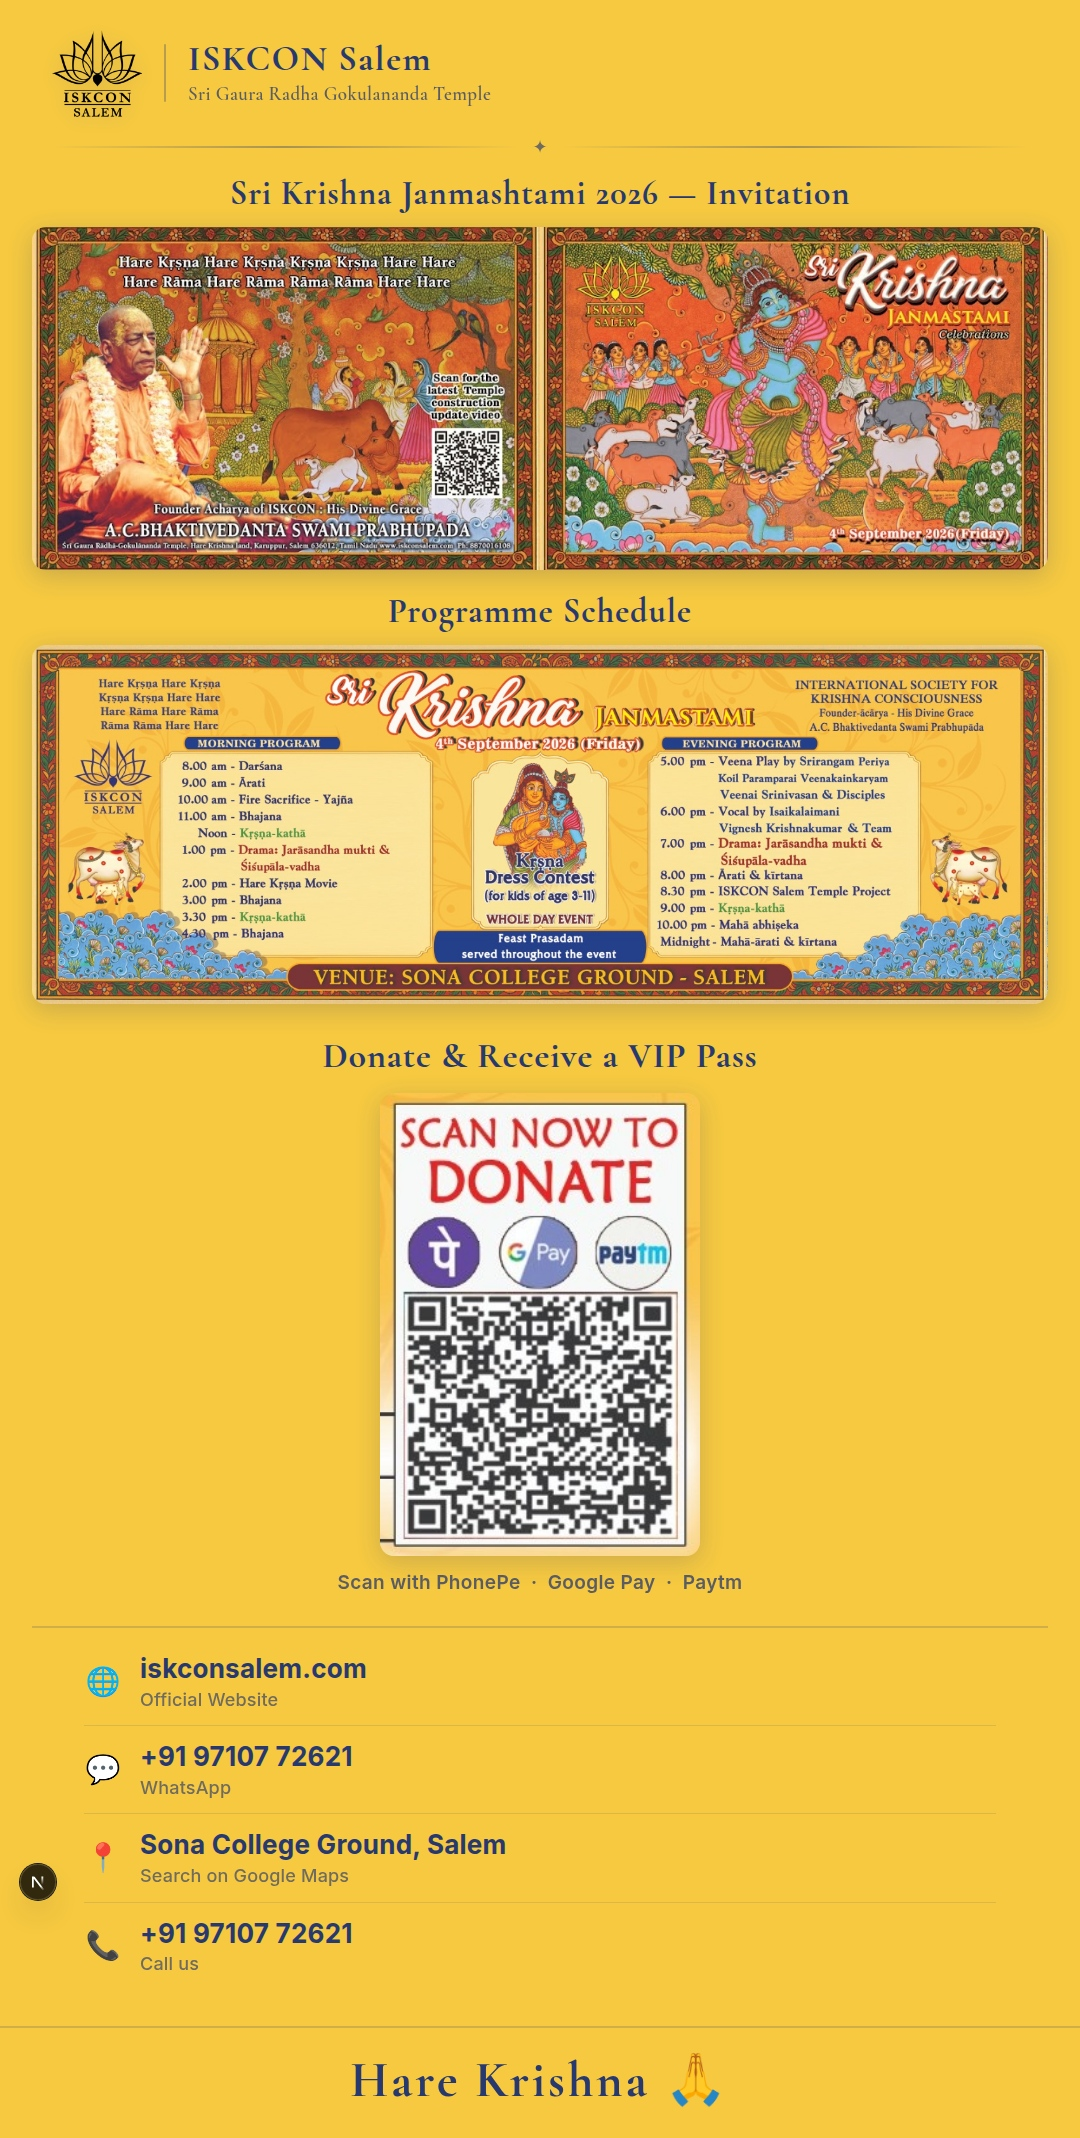
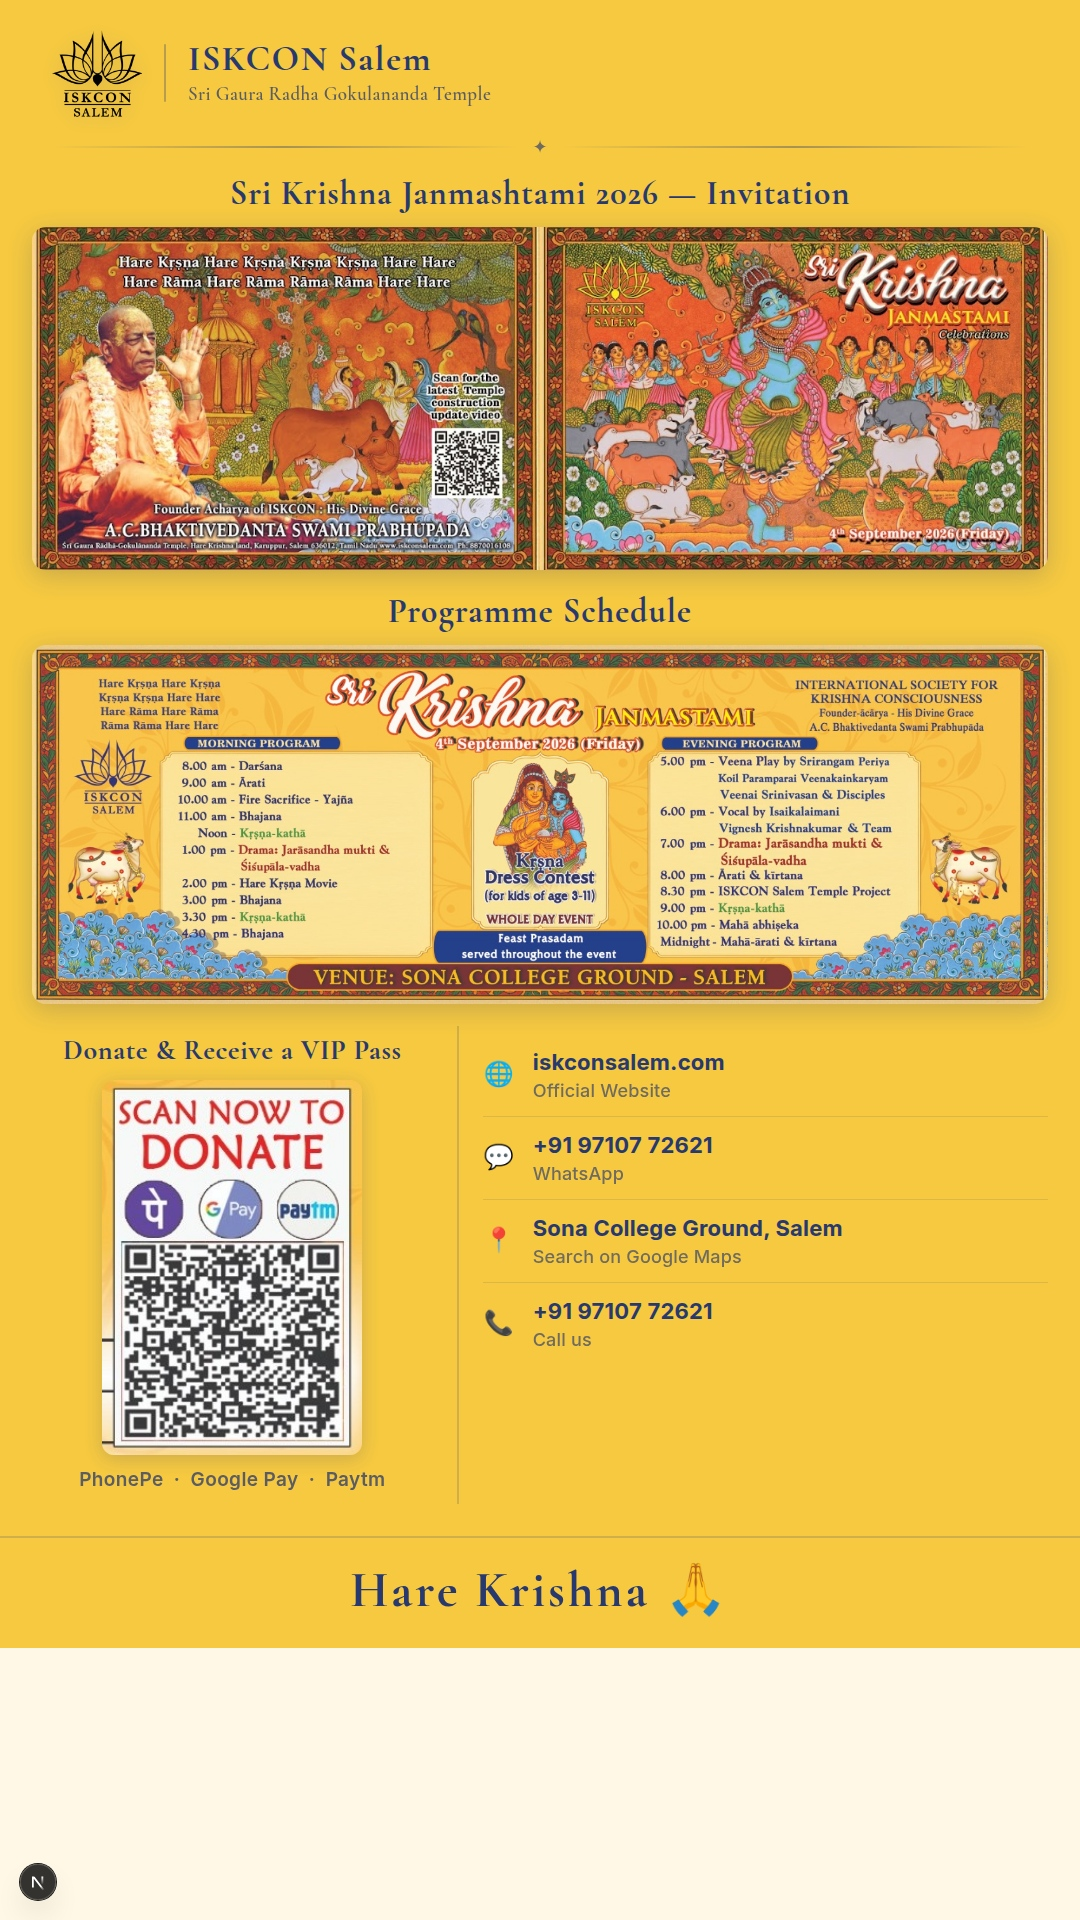
Share cards: QR and contact details side by side for compact WhatsApp format

diff --git a/app/pdf/ta-share-card/page.tsx b/app/pdf/ta-share-card/page.tsx
@@ -47,47 +47,52 @@ export default function TaShareCard() {
         />
       </div>
 
-      {/* Donation QR */}
-      <div className={styles.qrSection}>
-        <h2 className={styles.qrHeading}>நன்கொடை அளித்து VIP Pass பெறுங்கள்</h2>
-        <img
-          src="/images/qr-crop.jpg"
-          alt="நன்கொடை செய்ய ஸ்கேன் செய்யவும்"
-          className={styles.qrImg}
-        />
-        <p className={styles.qrSub}>PhonePe &nbsp;·&nbsp; Google Pay &nbsp;·&nbsp; Paytm மூலம் ஸ்கேன் செய்யவும்</p>
-      </div>
+      {/* QR + Links side by side */}
+      <div className={styles.qrLinksRow}>
 
-      {/* Links — readable text */}
-      <div className={styles.linksSection}>
-        <div className={styles.linkRow}>
-          <span className={styles.linkEmoji}>🌐</span>
-          <div className={styles.linkTextWrap}>
-            <span className={styles.linkText}>iskconsalem.com</span>
-            <span className={styles.linkSub}>அதிகாரப்பூர்வ இணையதளம்</span>
+        {/* Donation QR */}
+        <div className={styles.qrSection}>
+          <h2 className={styles.qrHeading}>நன்கொடை அளித்து VIP Pass பெறுங்கள்</h2>
+          <img
+            src="/images/qr-crop.jpg"
+            alt="நன்கொடை செய்ய ஸ்கேன் செய்யவும்"
+            className={styles.qrImg}
+          />
+          <p className={styles.qrSub}>PhonePe &nbsp;·&nbsp; Google Pay &nbsp;·&nbsp; Paytm</p>
+        </div>
+
+        {/* Links — readable text */}
+        <div className={styles.linksSection}>
+          <div className={styles.linkRow}>
+            <span className={styles.linkEmoji}>🌐</span>
+            <div className={styles.linkTextWrap}>
+              <span className={styles.linkText}>iskconsalem.com</span>
+              <span className={styles.linkSub}>அதிகாரப்பூர்வ இணையதளம்</span>
+            </div>
+          </div>
+          <div className={styles.linkRow}>
+            <span className={styles.linkEmoji}>💬</span>
+            <div className={styles.linkTextWrap}>
+              <span className={styles.linkText}>+91 97107 72621</span>
+              <span className={styles.linkSub}>WhatsApp</span>
+            </div>
+          </div>
+          <div className={styles.linkRow}>
+            <span className={styles.linkEmoji}>📍</span>
+            <div className={styles.linkTextWrap}>
+              <span className={styles.linkText}>Sona College Ground, Salem</span>
+              <span className={styles.linkSub}>Google Maps-ல் தேடுங்கள்</span>
+            </div>
+          </div>
+          <div className={styles.linkRow}>
+            <span className={styles.linkEmoji}>📞</span>
+            <div className={styles.linkTextWrap}>
+              <span className={styles.linkText}>+91 97107 72621</span>
+              <span className={styles.linkSub}>தொடர்பு கொள்ளுங்கள்</span>
+            </div>
           </div>
         </div>
-        <div className={styles.linkRow}>
-          <span className={styles.linkEmoji}>💬</span>
-          <div className={styles.linkTextWrap}>
-            <span className={styles.linkText}>+91 97107 72621</span>
-            <span className={styles.linkSub}>WhatsApp</span>
-          </div>
-        </div>
-        <div className={styles.linkRow}>
-          <span className={styles.linkEmoji}>📍</span>
-          <div className={styles.linkTextWrap}>
-            <span className={styles.linkText}>Sona College Ground, Salem</span>
-            <span className={styles.linkSub}>Google Maps-ல் தேடுங்கள்</span>
-          </div>
-        </div>
-        <div className={styles.linkRow}>
-          <span className={styles.linkEmoji}>📞</span>
-          <div className={styles.linkTextWrap}>
-            <span className={styles.linkText}>+91 97107 72621</span>
-            <span className={styles.linkSub}>தொடர்பு கொள்ளுங்கள்</span>
-          </div>
-        </div>
+
       </div>
 
       {/* Footer */}

diff --git a/app/pdf/en-share-card/page.tsx b/app/pdf/en-share-card/page.tsx
@@ -47,47 +47,52 @@ export default function EnShareCard() {
         />
       </div>
 
-      {/* Donation QR */}
-      <div className={styles.qrSection}>
-        <h2 className={styles.qrHeading}>Donate &amp; Receive a VIP Pass</h2>
-        <img
-          src="/images/qr-crop.jpg"
-          alt="Scan to Donate — PhonePe, Google Pay, Paytm"
-          className={styles.qrImg}
-        />
-        <p className={styles.qrSub}>Scan with PhonePe &nbsp;·&nbsp; Google Pay &nbsp;·&nbsp; Paytm</p>
-      </div>
+      {/* QR + Links side by side */}
+      <div className={styles.qrLinksRow}>
 
-      {/* Links — readable text */}
-      <div className={styles.linksSection}>
-        <div className={styles.linkRow}>
-          <span className={styles.linkEmoji}>🌐</span>
-          <div className={styles.linkTextWrap}>
-            <span className={styles.linkText}>iskconsalem.com</span>
-            <span className={styles.linkSub}>Official Website</span>
+        {/* Donation QR */}
+        <div className={styles.qrSection}>
+          <h2 className={styles.qrHeading}>Donate &amp; Receive a VIP Pass</h2>
+          <img
+            src="/images/qr-crop.jpg"
+            alt="Scan to Donate — PhonePe, Google Pay, Paytm"
+            className={styles.qrImg}
+          />
+          <p className={styles.qrSub}>PhonePe &nbsp;·&nbsp; Google Pay &nbsp;·&nbsp; Paytm</p>
+        </div>
+
+        {/* Links — readable text */}
+        <div className={styles.linksSection}>
+          <div className={styles.linkRow}>
+            <span className={styles.linkEmoji}>🌐</span>
+            <div className={styles.linkTextWrap}>
+              <span className={styles.linkText}>iskconsalem.com</span>
+              <span className={styles.linkSub}>Official Website</span>
+            </div>
+          </div>
+          <div className={styles.linkRow}>
+            <span className={styles.linkEmoji}>💬</span>
+            <div className={styles.linkTextWrap}>
+              <span className={styles.linkText}>+91 97107 72621</span>
+              <span className={styles.linkSub}>WhatsApp</span>
+            </div>
+          </div>
+          <div className={styles.linkRow}>
+            <span className={styles.linkEmoji}>📍</span>
+            <div className={styles.linkTextWrap}>
+              <span className={styles.linkText}>Sona College Ground, Salem</span>
+              <span className={styles.linkSub}>Search on Google Maps</span>
+            </div>
+          </div>
+          <div className={styles.linkRow}>
+            <span className={styles.linkEmoji}>📞</span>
+            <div className={styles.linkTextWrap}>
+              <span className={styles.linkText}>+91 97107 72621</span>
+              <span className={styles.linkSub}>Call us</span>
+            </div>
           </div>
         </div>
-        <div className={styles.linkRow}>
-          <span className={styles.linkEmoji}>💬</span>
-          <div className={styles.linkTextWrap}>
-            <span className={styles.linkText}>+91 97107 72621</span>
-            <span className={styles.linkSub}>WhatsApp</span>
-          </div>
-        </div>
-        <div className={styles.linkRow}>
-          <span className={styles.linkEmoji}>📍</span>
-          <div className={styles.linkTextWrap}>
-            <span className={styles.linkText}>Sona College Ground, Salem</span>
-            <span className={styles.linkSub}>Search on Google Maps</span>
-          </div>
-        </div>
-        <div className={styles.linkRow}>
-          <span className={styles.linkEmoji}>📞</span>
-          <div className={styles.linkTextWrap}>
-            <span className={styles.linkText}>+91 97107 72621</span>
-            <span className={styles.linkSub}>Call us</span>
-          </div>
-        </div>
+
       </div>
 
       {/* Footer */}

diff --git a/app/pdf/en-share-card/share-card.module.css b/app/pdf/en-share-card/share-card.module.css
@@ -132,31 +132,45 @@
 }
 
 /* ════════════════════════════════
+   QR + LINKS SIDE BY SIDE
+   ════════════════════════════════ */
+
+.qrLinksRow {
+  display: flex;
+  align-items: flex-start;
+  gap: 0;
+  padding: 0 32px 24px;
+}
+
+/* ════════════════════════════════
    DONATION QR
    ════════════════════════════════ */
 
 .qrSection {
-  padding: 8px 52px 28px;
+  flex: 0 0 42%;
+  padding: 8px 24px 8px 0;
   text-align: center;
+  border-right: 2px solid rgba(40,57,111,0.18);
 }
 
 .qrHeading {
   font-family: var(--font-cormorant), "Cormorant Garamond", Georgia, serif;
-  font-size: 36px;
+  font-size: 28px;
   font-weight: 800;
   color: var(--navy);
-  margin: 0 0 16px;
+  margin: 0 0 12px;
   letter-spacing: 0.025em;
   line-height: 1.2;
 }
 
 .qrImg {
-  width: 320px;
+  width: 100%;
+  max-width: 260px;
   height: auto;
   display: block;
-  margin: 0 auto 12px;
-  border-radius: 14px;
-  box-shadow: 0 6px 24px rgba(40,57,111,0.2);
+  margin: 0 auto 10px;
+  border-radius: 12px;
+  box-shadow: 0 4px 18px rgba(40,57,111,0.2);
 }
 
 .qrSub {
@@ -174,12 +188,11 @@
    ════════════════════════════════ */
 
 .linksSection {
-  padding: 10px 52px 28px;
+  flex: 1;
+  padding: 8px 0 8px 24px;
   display: flex;
   flex-direction: column;
   gap: 0;
-  border-top: 2px solid rgba(40,57,111,0.18);
-  margin: 0 32px;
 }
 
 .linkRow {
@@ -195,16 +208,16 @@
 }
 
 .linkEmoji {
-  font-size: 28px;
+  font-size: 24px;
   flex-shrink: 0;
-  width: 38px;
+  width: 32px;
   text-align: center;
   line-height: 1;
 }
 
 .linkText {
   font-family: "Inter", system-ui, sans-serif;
-  font-size: 26px;
+  font-size: 22px;
   font-weight: 700;
   color: var(--navy);
   letter-spacing: 0.01em;
